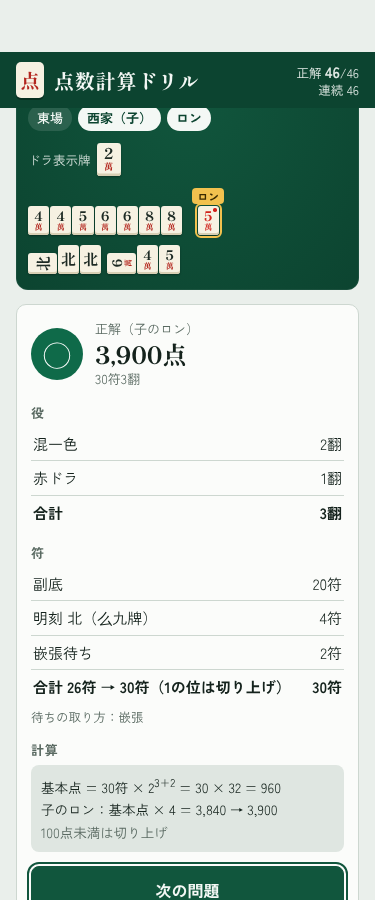
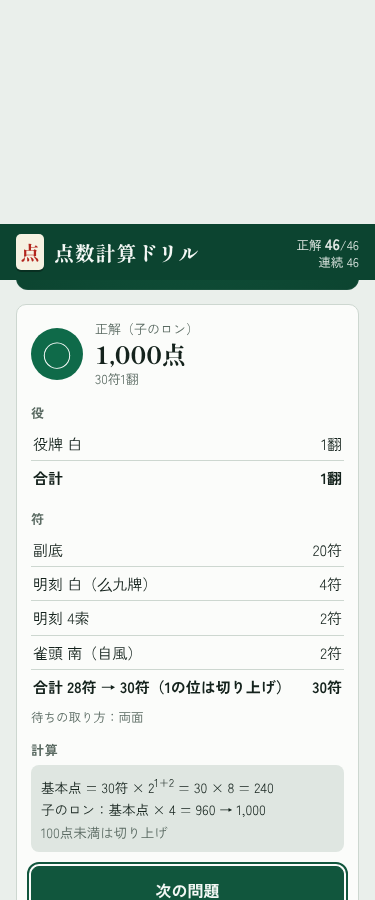
牌の絵柄を一般的なデザインに変更（萬子は漢数字、筒子は丸、索子は竹、1索は鳥）
Claude-Session: https://claude.ai/code/session_017pBGXb9HXtQwXbcXeKhDQi

diff --git a/tensu/index.html b/tensu/index.html
@@ -14,7 +14,7 @@
 :root{
   --bg:#eaefeb; --surface:#fbfcfa; --sunk:#dfe6e1; --ink:#14221c; --muted:#5a6a62; --line:#cdd7d0;
   --felt:#11563d; --felt-deep:#0c4430; --felt-ink:#f4f8f5; --tile:#f6f1e2; --tile-edge:#d8cfb4; --tile-back:#e0a43a;
-  --man:#1d2a24; --man-suit:#b3261e; --pin:#1f5fae; --sou:#1b7a43; --aka:#d0201a; --chun:#c0211b; --hatsu:#17784a; --haku:#7d93b5;
+  --tb:#1d4f9c; --tg:#12764a; --tr:#c8251c; --tk:#1c1c1a; --logo:#b3261e;
   --pos:#0f6a49; --neg:#b4302a; --warn:#9a6a00;
   --seg:#dfe6e1; --seg-on:#fbfcfa;
   --display:"Shippori Mincho B1","Hiragino Mincho ProN","Yu Mincho",serif;
@@ -33,7 +33,7 @@
 body{margin:0;background:var(--bg);color:var(--ink);font-family:var(--body);font-size:15px;line-height:1.55;-webkit-text-size-adjust:100%}
 .top{position:sticky;top:0;z-index:5;padding-top:env(safe-area-inset-top,0px);background:var(--felt-deep);color:var(--felt-ink)}
 .top-in{max-width:640px;margin:0 auto;padding-block:10px;padding-left:max(16px,env(safe-area-inset-left,0px));padding-right:max(16px,env(safe-area-inset-right,0px));display:flex;align-items:center;gap:10px}
-.logo{display:inline-grid;place-items:center;width:28px;height:36px;border-radius:5px;background:var(--tile);color:var(--man-suit);font-family:var(--display);font-weight:800;font-size:19px;box-shadow:0 2px 0 rgba(0,0,0,.3)}
+.logo{display:inline-grid;place-items:center;width:28px;height:36px;border-radius:5px;background:var(--tile);color:var(--logo);font-family:var(--display);font-weight:800;font-size:19px;box-shadow:0 2px 0 rgba(0,0,0,.3)}
 .brand{font-family:var(--display);font-weight:800;font-size:20px;letter-spacing:.04em}
 .score-mini{margin-left:auto;font-size:12.5px;text-align:right;line-height:1.3;opacity:.92;font-variant-numeric:tabular-nums}
 .score-mini b{font-size:15px}
@@ -64,20 +64,16 @@ h2{font-family:var(--display);font-size:18px;margin:0 0 8px}
 .win-lbl{font-size:11px;font-weight:700;background:#f2c14e;color:#3a2a00;border-radius:4px;padding:0 5px;line-height:1.5}
 .melds{display:inline-flex;gap:6px;align-items:flex-end;flex-wrap:wrap}
 
-/* 牌 */
-.t{--h:calc(var(--tw) * 1.36);display:inline-flex;flex-direction:column;align-items:center;justify-content:center;width:var(--tw);height:var(--h);background:var(--tile);border-radius:calc(var(--tw) * .14);box-shadow:inset 0 calc(var(--tw) * -.1) 0 var(--tile-edge),0 1px 2px rgba(0,0,0,.35);font-family:var(--display);font-weight:800;line-height:1;color:var(--man);padding-bottom:calc(var(--tw) * .08);flex:none;position:relative;user-select:none}
-.t .n{font-size:calc(var(--tw) * .62)}
-.t .s{font-size:calc(var(--tw) * .38);margin-top:calc(var(--tw) * .04)}
-.t.m .s{color:var(--man-suit)} .t.p .n,.t.p .s{color:var(--pin)} .t.s .n,.t.s .s{color:var(--sou)}
-.t.aka .n,.t.aka .s{color:var(--aka)}
-.t.aka::after{content:"";position:absolute;top:calc(var(--tw) * .1);right:calc(var(--tw) * .1);width:calc(var(--tw) * .16);height:calc(var(--tw) * .16);border-radius:50%;background:var(--aka)}
-.t.z .n{font-size:calc(var(--tw) * .72)}
-.t.z6 .n{color:var(--hatsu)} .t.z7 .n{color:var(--chun)}
-.t.z5 .n{width:calc(var(--tw) * .56);height:calc(var(--tw) * .76);border:calc(var(--tw) * .07) solid var(--haku);border-radius:2px;font-size:0}
+/* 牌（絵柄は tiles.js の SVG。牌は実物の色なので、ライト・ダークどちらでも同じ色） */
+.t{--h:calc(var(--tw) * 1.36);display:inline-grid;place-items:center;width:var(--tw);height:var(--h);background:var(--tile);border-radius:calc(var(--tw) * .14);box-shadow:inset 0 calc(var(--tw) * -.1) 0 var(--tile-edge),0 1px 2px rgba(0,0,0,.35);padding-bottom:calc(var(--tw) * .08);flex:none;position:relative;user-select:none}
+.t .face{display:block;width:calc(var(--tw) * .88);height:calc(var(--h) * .84)}
+.t .tx{font-family:var(--display);font-weight:800}
+.t .tb{color:var(--tb)} .t .tg{color:var(--tg)} .t .tr{color:var(--tr)}
+.t .fb{fill:var(--tb)} .t .fg{fill:var(--tg)} .t .fr{fill:var(--tr)} .t .fk{fill:var(--tk)}
 .t.back{background:var(--tile-back);box-shadow:inset 0 calc(var(--tw) * -.1) 0 #a8741f,0 1px 2px rgba(0,0,0,.35)}
 /* 鳴いた牌は横向き */
-.t.side{width:var(--h);height:var(--tw);padding:0}
-.t.side .rot{display:flex;flex-direction:column;align-items:center;justify-content:center;transform:rotate(-90deg);line-height:1}
+.t.side{width:var(--h);height:var(--tw);padding:0 0 0 calc(var(--tw) * .08)}
+.t.side .face{transform:rotate(-90deg)}
 .t.win{outline:2px solid #f2c14e;outline-offset:1px}
 .small-tiles{--tw:24px}
 
@@ -199,10 +195,12 @@ details.rules ul{margin:8px 0 0;padding-left:1.2em;font-size:13.5px}
 </main>
 
 <script src="mahjong.js"></script>
+<script src="tiles.js"></script>
 <script>
 (function () {
 'use strict';
 const M = window.Mahjong;
+document.body.insertAdjacentHTML('afterbegin', TileFace.DEFS);
 const STORE = 'tensu-drill-v1';
 const $ = id => document.getElementById(id);
 
@@ -226,22 +224,11 @@ let note = '';
 
 /* ---------- 牌の表示 ---------- */
 function tileHTML(code, opts = {}) {
-  const t = M.norm(code);
+  if (opts.back) return '<span class="t back" role="img" aria-label="伏せ牌"></span>';
   const cls = ['t'];
-  let inner;
-  if (opts.back) return '<span class="t back" aria-label="伏せ牌"></span>';
-  if (t >= 27) {
-    cls.push('z', 'z' + (t - 26));
-    inner = `<span class="n">${'東南西北白發中'[t - 27]}</span>`;
-  } else {
-    const su = ['m', 'p', 's'][M.suitOf(t)];
-    cls.push(su);
-    if (M.isRed(code)) cls.push('aka');
-    inner = `<span class="n">${M.numOf(t)}</span><span class="s">${'萬筒索'[M.suitOf(t)]}</span>`;
-  }
-  if (opts.side) { cls.push('side'); inner = `<span class="rot">${inner}</span>`; }
+  if (opts.side) cls.push('side');
   if (opts.win) cls.push('win');
-  return `<span class="${cls.join(' ')}" role="img" aria-label="${M.tileName(code)}${opts.side ? '（鳴き）' : ''}">${inner}</span>`;
+  return `<span class="${cls.join(' ')}" role="img" aria-label="${M.tileName(code)}${opts.side ? '（鳴き）' : ''}">${TileFace.face(M.norm(code), M.isRed(code))}</span>`;
 }
 
 function meldHTML(m) {

diff --git a/tensu/tiles.js b/tensu/tiles.js
@@ -1,0 +1,91 @@
+/* 牌の絵柄（SVG）。一般的な牌のデザインに合わせる
+ *   萬子: 漢数字＋赤い「萬」 / 筒子: 丸の並び / 索子: 竹の棒（1索は鳥） / 字牌: 文字（白は枠）
+ * 牌番号は mahjong.js と同じ（0-8 萬・9-17 筒・18-26 索・27-33 字牌、34-36 赤5）
+ * 色は CSS の --tb（青）--tg（緑）--tr（赤）--tk（墨）を使う */
+(function (global) {
+'use strict';
+
+// 何度も使う部品。<use> で色（currentColor）だけ変えて並べる
+const DEFS = `<svg width="0" height="0" style="position:absolute" aria-hidden="true" focusable="false"><defs>
+<symbol id="tf-dot" viewBox="-10 -10 20 20"><circle r="9.4" fill="currentColor"/><circle r="6.3" fill="none" stroke="#fff" stroke-width="1.7"/><circle r="2.7" fill="#fff"/><circle r="1.3" fill="currentColor"/></symbol>
+<symbol id="tf-stick" viewBox="0 0 6 14" preserveAspectRatio="none"><rect x=".4" y=".2" width="5.2" height="13.6" rx="2.2" fill="currentColor"/><path d="M3 1.6V5.9M3 8.1V12.4" stroke="#fff" stroke-width=".9" stroke-linecap="round" opacity=".55"/><path d="M.9 7H5.1" stroke="#fff" stroke-width=".8" opacity=".75"/></symbol>
+</defs></svg>`;
+
+const KANJI = ['一', '二', '三', '四', '五', '六', '七', '八', '九'];
+const B = 'tb', G = 'tg', R = 'tr';
+
+// 筒子: [x, y, 色] と丸の半径
+const PIN = {
+  2: [6.4, [[15, 11, G], [15, 29, B]]],
+  3: [5.8, [[8, 9, B], [15, 20, R], [22, 31, G]]],
+  4: [6.0, [[9, 11, B], [21, 11, G], [9, 29, G], [21, 29, B]]],
+  5: [5.4, [[8, 8.5, B], [22, 8.5, G], [15, 20, R], [8, 31.5, G], [22, 31.5, B]]],
+  6: [4.9, [[9, 7.5, G], [21, 7.5, G], [9, 21, R], [21, 21, R], [9, 32.5, R], [21, 32.5, R]]],
+  7: [4.3, [[7, 6, G], [15, 10, G], [23, 14, G], [9.5, 23.5, R], [20.5, 23.5, R], [9.5, 33.5, R], [20.5, 33.5, R]]],
+  8: [4.3, [9, 21].flatMap(x => [6.8, 15.6, 24.4, 33.2].map(y => [x, y, B]))],
+  9: [4.3, [[9, B], [20, R], [31, G]].flatMap(([y, c]) => [6.5, 15, 23.5].map(x => [x, y, c]))],
+};
+
+// 索子: [x, y, 色, 傾き] と棒の幅・高さ（x, y は棒の中心）
+const SOU = {
+  2: [6.6, 14, [[15, 10.5, G], [15, 29.5, G]]],
+  3: [6.6, 14, [[15, 10.5, G], [9, 29.5, G], [21, 29.5, G]]],
+  4: [6.6, 14, [[9, 10.5, G], [21, 10.5, G], [9, 29.5, G], [21, 29.5, G]]],
+  5: [6, 12.5, [[7, 9, G], [23, 9, G], [15, 20, R], [7, 31, G], [23, 31, G]]],
+  6: [6, 14, [7, 15, 23].flatMap(x => [[x, 10.5, G], [x, 29.5, G]])],
+  7: [5.8, 11.6, [[15, 6.5, R]].concat([7, 15, 23].flatMap(x => [[x, 20, G], [x, 33, G]]))],
+  // 8索は上が「八」の字、下が逆向き
+  8: [4.8, 14, [[4.4, 10.5, G, 0], [11.6, 10.5, G, 22], [18.4, 10.5, G, -22], [25.6, 10.5, G, 0],
+    [4.4, 29.5, G, 0], [11.6, 29.5, G, -22], [18.4, 29.5, G, 22], [25.6, 29.5, G, 0]]],
+  9: [5.8, 11.6, [7, 20, 33].flatMap(y => [7, 15, 23].map((x, i) => [x, y, i === 1 ? R : G]))],
+};
+
+const BIRD = `<g>
+<path d="M7 31c3-9 3.5-16 9-19.5 3.6-2.3 7.6-.9 8 2.6.5 3.8-2.5 6.4-4.6 8.6-3.2 3.4-6.8 6.5-12.4 8.3z" class="fg"/>
+<path d="M11 27c2.6-3.4 4.6-7.6 8.2-10.6" fill="none" stroke="#fff" stroke-width="1.2" stroke-linecap="round" opacity=".7"/>
+<path d="M14 22c2.2-1 4.4-2.8 5.8-4.6" fill="none" stroke="#fff" stroke-width="1" stroke-linecap="round" opacity=".55"/>
+<circle cx="21" cy="11.5" r="3.6" class="fr"/><circle cx="21.9" cy="10.8" r=".9" fill="#fff"/>
+<path d="M24.3 11.2l3.4.9-3.2 1.3z" class="fk"/>
+<path d="M19.5 8.2l-1.2-3.4M21 7.9l.2-3.6M22.5 8.3l1.6-3.1" stroke="var(--tr)" stroke-width="1" stroke-linecap="round"/>
+<path d="M8 30.5l-5 6.5M9.5 31.2l-2.8 7.4M11.3 31.2l-.6 7.6" stroke="var(--tb)" stroke-width="1.7" stroke-linecap="round"/>
+<path d="M15.5 27.5l-.8 4.5M18 26l.6 4.4" stroke="var(--tr)" stroke-width="1" stroke-linecap="round"/>
+</g>`;
+
+const PIN1 = `<circle cx="15" cy="20" r="12.5" class="fg"/><circle cx="15" cy="20" r="10" fill="#fff"/>
+<circle cx="15" cy="20" r="8.6" class="fb"/><circle cx="15" cy="20" r="6.2" fill="#fff"/>
+<circle cx="15" cy="20" r="4.8" class="fr"/><circle cx="15" cy="20" r="1.8" fill="#fff"/>
+${[0, 45, 90, 135, 180, 225, 270, 315].map(a => `<circle cx="${(15 + 11.25 * Math.cos(a * Math.PI / 180)).toFixed(2)}" cy="${(20 + 11.25 * Math.sin(a * Math.PI / 180)).toFixed(2)}" r=".7" class="fr"/>`).join('')}`;
+
+function face(t, red) {
+  let body;
+  if (t >= 27) {
+    const ch = '東南西北白發中'[t - 27];
+    if (t === 31) body = '<rect x="6" y="7" width="18" height="26" rx="1.5" fill="none" stroke="var(--tb)" stroke-width="2.2"/><rect x="9" y="10" width="12" height="20" rx="1" fill="none" stroke="var(--tb)" stroke-width=".8"/>';
+    else body = `<text x="15" y="29" text-anchor="middle" font-size="24" class="tx ${t === 32 ? 'fg' : t === 33 ? 'fr' : 'fk'}">${ch}</text>`;
+  } else {
+    const suit = Math.floor(t / 9), n = t % 9 + 1;
+    if (suit === 0) {
+      body = `<text x="15" y="17" text-anchor="middle" font-size="16" class="tx ${red ? 'fr' : 'fk'}">${KANJI[n - 1]}</text>`
+        + `<text x="15" y="36.5" text-anchor="middle" font-size="16" class="tx fr">萬</text>`;
+    } else if (suit === 1) {
+      if (n === 1) body = PIN1;
+      else {
+        const [r, dots] = PIN[n];
+        body = dots.map(([x, y, c]) => `<use href="#tf-dot" x="${x - r}" y="${y - r}" width="${r * 2}" height="${r * 2}" class="${red ? R : c}"/>`).join('');
+      }
+    } else {
+      if (n === 1) body = BIRD;
+      else {
+        const [w, h, sticks] = SOU[n];
+        body = sticks.map(([x, y, c, rot]) => {
+          const tr = rot ? ` transform="rotate(${rot} ${x} ${y})"` : '';
+          return `<use href="#tf-stick" x="${x - w / 2}" y="${y - h / 2}" width="${w}" height="${h}" class="${red ? R : c}"${tr}/>`;
+        }).join('');
+      }
+    }
+  }
+  return `<svg class="face" viewBox="0 0 30 40" aria-hidden="true" focusable="false">${body}</svg>`;
+}
+
+global.TileFace = { DEFS, face };
+})(typeof window !== 'undefined' ? window : globalThis);

diff --git a/tensu/README.md b/tensu/README.md
@@ -30,6 +30,7 @@
 |---|---|
 | `index.html` | 画面 |
 | `mahjong.js` | 牌姿の生成と点数計算。出題の重み（`PRACTICAL` / `RANDOM`）もここ |
+| `tiles.js` | 牌の絵柄（SVG）。萬子・筒子・索子・字牌 |
 | `test.js` | 点数計算のテストと、生成した問題の分布の確認。`node tensu/test.js` で実行 |
 
 点数計算は、Python の点数計算ライブラリ `mahjong`（天鳳ルール準拠）と同じルール設定で、生成した30,000問の結果が一致することを確認しています。
